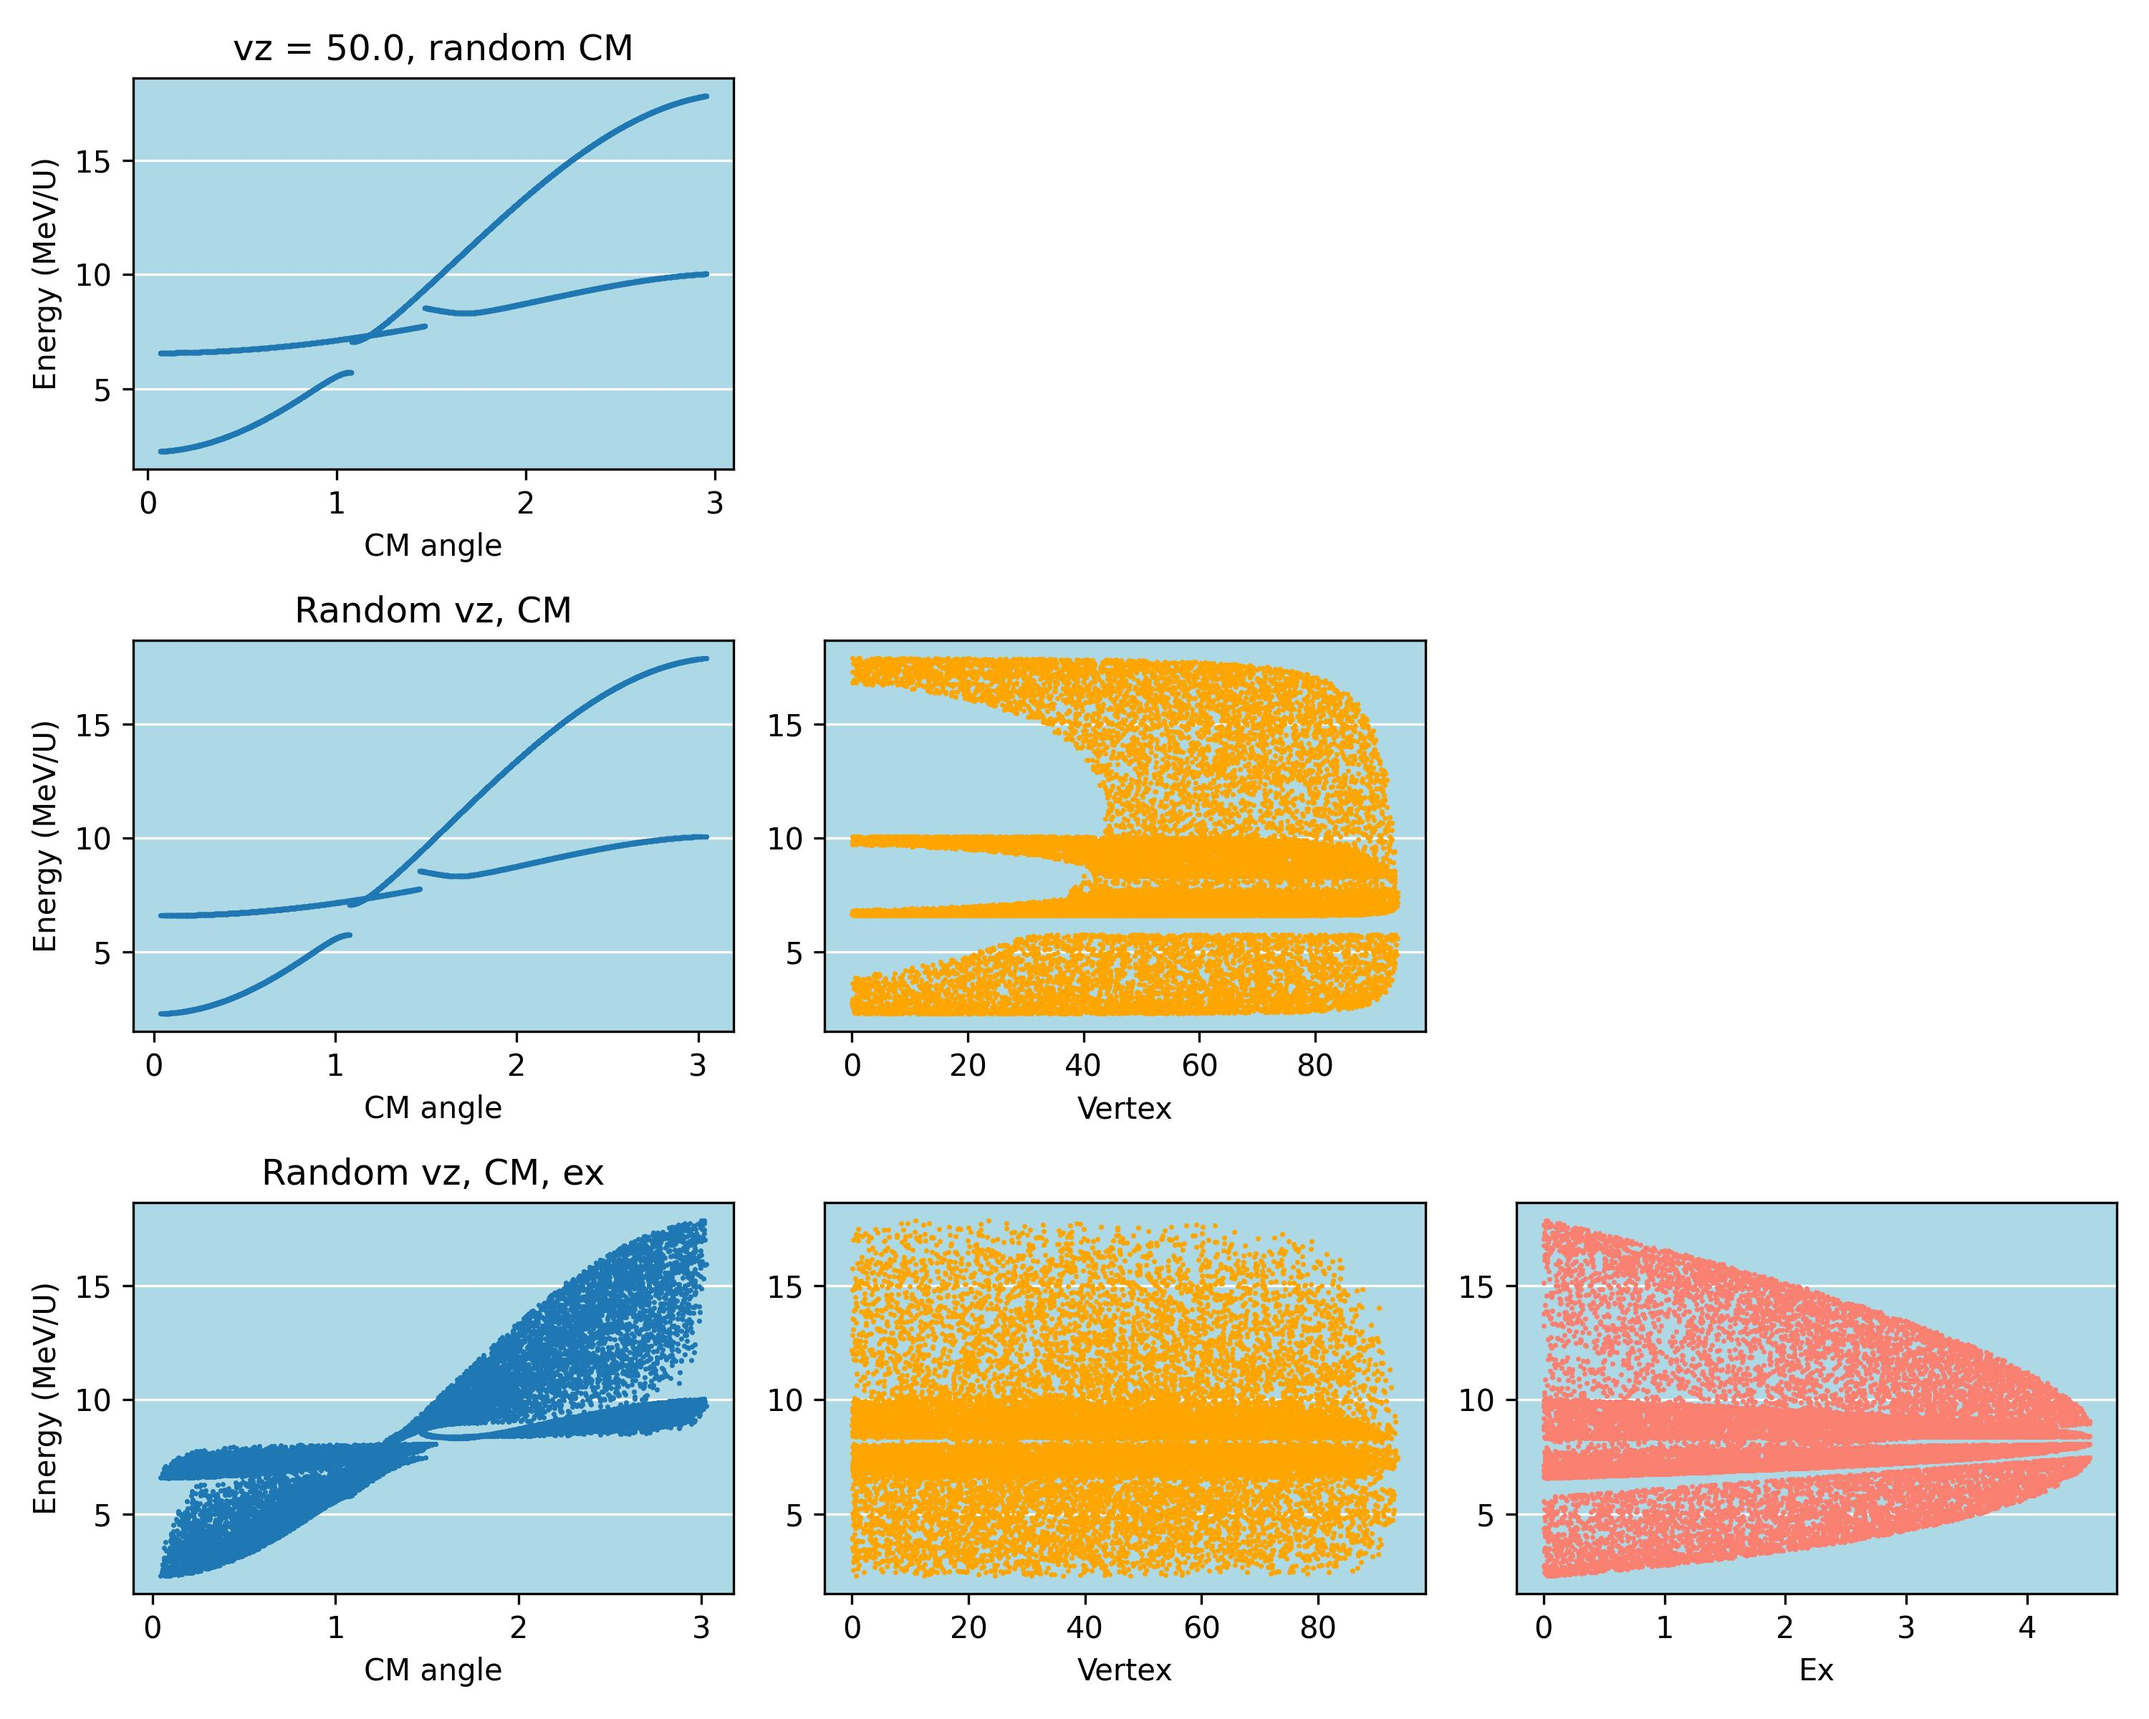
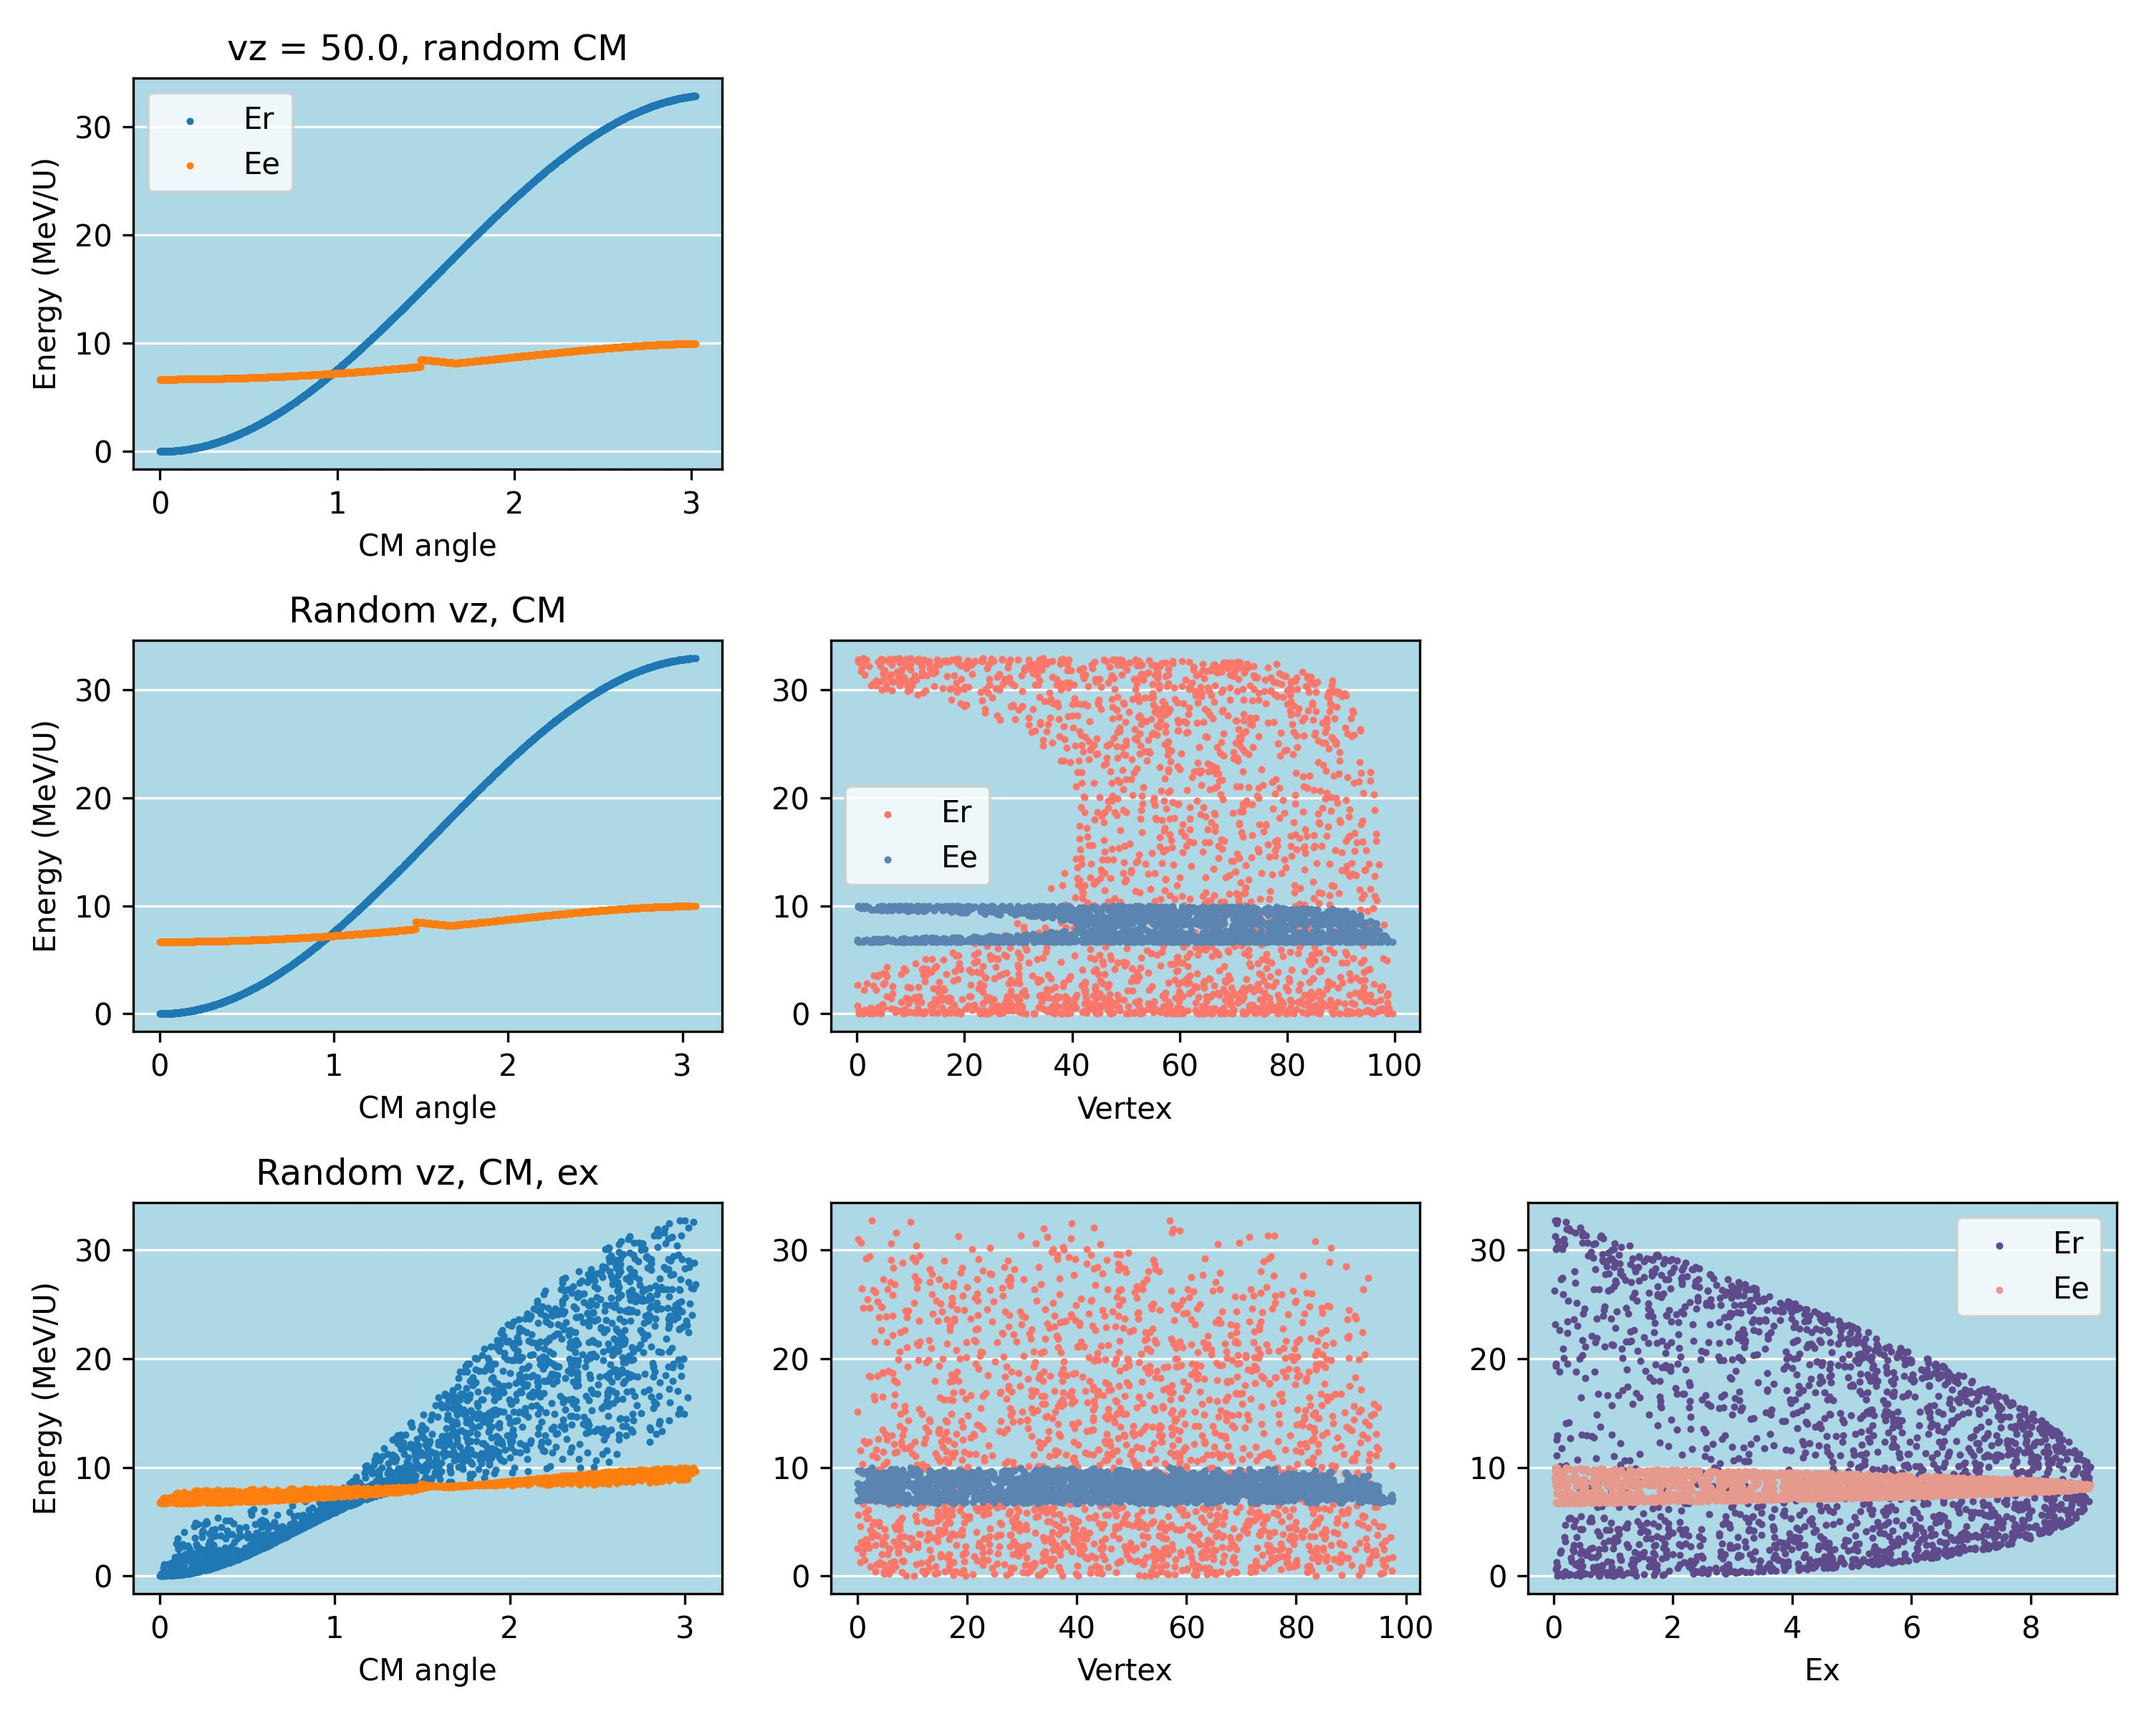
Added legend and changed colors to make plots clearer

diff --git a/main.py b/main.py
@@ -74,18 +74,13 @@ class Window(Tk):
 
         self.nreaction_label = Label(self.reaction_frame, text = "# Reactions (thousands)")
         self.nreaction_label.grid(row=0,column=2)
-        self.nreaction_entry = Entry(self.reaction_frame,textvariable=IntVar(value=10))
+        self.nreaction_entry = Entry(self.reaction_frame,textvariable=IntVar(value=1))
         self.nreaction_entry.grid(row=1,column=2)
 
         self.excitation_label = Label(self.reaction_frame, text = "Excitation (MeV)")
         self.excitation_label.grid(row=2,column=0)
         self.excitation_entry = Entry(self.reaction_frame,textvariable=DoubleVar(value=0))
         self.excitation_entry.grid(row=3,column=0)
-
-        # self.vertex_label = Label(self.reaction_frame, text = "Vertex of Reaction (cm)")
-        # self.vertex_label.grid(row=2,column=1)
-        # self.vertex_entry = Entry(self.reaction_frame,textvariable=DoubleVar(value=50))
-        # self.vertex_entry.grid(row=3,column=1)
 
         for widget in self.reaction_frame.winfo_children():
            widget.grid_configure(padx=5,pady=5)
@@ -226,7 +221,7 @@ class Window(Tk):
             self.runEN_button["state"] = "active"
         
     def infoWin(self) -> None:
-        def delete_monitor(self: GUI) -> None:
+        def delete_monitor(self: Window) -> None:
             self.infoWindow.destroy()
             self.info_button['state'] = 'active'
 
@@ -358,7 +353,8 @@ class Kinematics:
         self.looping = True
         
         vz = self.xdim / 2
-        self.Energy1 = []
+        self.Energy11 = []
+        self.Energy12 = []
         self.Cm1 = []
         while len(self.Cm1) < 2*self.nreactions:
             try:
@@ -378,11 +374,13 @@ class Kinematics:
             else:
                 y2 = vz*np.tan(A2)
             if y1 >= self.dead and y2 <= self.threshd:
-                self.Cm1.extend([self.cm,self.cm])
-                self.Energy1.extend([Er,Ee])
+                self.Cm1.append(self.cm)
+                self.Energy11.append(Er)
+                self.Energy12.append(Ee)
 
         self.vz2 = []
-        self.Energy2 = []
+        self.Energy21 = []
+        self.Energy22 = []
         self.Cm2 = []
         while len(self.Cm2) < 2*self.nreactions:
             try:
@@ -403,14 +401,16 @@ class Kinematics:
             else:
                 y2 = vz*np.tan(A2)
             if y1 >= self.dead and y2 <= self.threshd:
-                self.vz2.extend([vz,vz])
-                self.Cm2.extend([self.cm,self.cm])
-                self.Energy2.extend([Er,Ee])
+                self.vz2.append(vz)
+                self.Cm2.append(self.cm)
+                self.Energy21.append(Er)
+                self.Energy22.append(Ee)
 
         amu = 931.4941024 # MeV/U
         self.vz3 = []
         self.Cm3 = []
-        self.Energy3 = []
+        self.Energy31 = []
+        self.Energy32 = []
         self.Excite3 = []
         while len(self.Cm3) < 2*self.nreactions:
             try:
@@ -433,10 +433,11 @@ class Kinematics:
             else:
                 y2 = vz*np.tan(A2)
             if y1 >= self.dead and y2 <= self.threshd:
-                self.vz3.extend([vz,vz])
-                self.Cm3.extend([self.cm,self.cm])
-                self.Energy3.extend([Er,Ee])
-                self.Excite3.extend([Ex,Ex])
+                self.vz3.append(vz)
+                self.Cm3.append(self.cm)
+                self.Energy31.append(Er)
+                self.Energy32.append(Ee)
+                self.Excite3.append(Ex)
 
         self.looping = False
         GUI.toggleRunButtons(state="on")
@@ -479,7 +480,6 @@ class Kinematics:
 
     def createENFig(self) -> None:
         fig,ax = plt.subplots(nrows=3,ncols=3,figsize=(10,8))
-        #plt.subplots_adjust(wspace=0.3, hspace=0.5)
 
         ax[0,0].set_xlabel("CM angle")
         ax[0,0].set_ylabel("Energy (MeV/U)")
@@ -487,7 +487,9 @@ class Kinematics:
         ax[0,0].set_facecolor('#ADD8E6')
         ax[0,0].set_axisbelow(True)
         ax[0,0].yaxis.grid(color='white', linestyle='-')
-        ax[0,0].scatter(x=self.Cm1,y=self.Energy1,s=0.5)
+        ax[0,0].scatter(x=self.Cm1,y=self.Energy11,s=2,label="Er")
+        ax[0,0].scatter(x=self.Cm1,y=self.Energy12,s=2,label="Ee")
+        ax[0,0].legend()
 
         ax[0,1].axis('off')
         ax[0,2].axis('off')
@@ -498,13 +500,16 @@ class Kinematics:
         ax[1,0].set_facecolor('#ADD8E6')
         ax[1,0].set_axisbelow(True)
         ax[1,0].yaxis.grid(color='white', linestyle='-')
-        ax[1,0].scatter(x=self.Cm2,y=self.Energy2,s=0.5)
+        ax[1,0].scatter(x=self.Cm2,y=self.Energy21,s=2)
+        ax[1,0].scatter(x=self.Cm2,y=self.Energy22,s=2)
 
         ax[1,1].set_xlabel("Vertex")
         ax[1,1].set_facecolor('#ADD8E6')
         ax[1,1].set_axisbelow(True)
         ax[1,1].yaxis.grid(color='white', linestyle='-')
-        ax[1,1].scatter(x=self.vz2,y=self.Energy2,s=0.5,c="orange")
+        ax[1,1].scatter(x=self.vz2,y=self.Energy21,s=2,c="#FC776AFF",label="Er")
+        ax[1,1].scatter(x=self.vz2,y=self.Energy22,s=2,c="#5B84B1FF",label="Ee")
+        ax[1,1].legend()
 
         ax[1,2].axis('off')
 
@@ -514,19 +519,23 @@ class Kinematics:
         ax[2,0].set_facecolor('#ADD8E6')
         ax[2,0].set_axisbelow(True)
         ax[2,0].yaxis.grid(color='white', linestyle='-')
-        ax[2,0].scatter(x=self.Cm3,y=self.Energy3,s=0.5)
+        ax[2,0].scatter(x=self.Cm3,y=self.Energy31,s=2)
+        ax[2,0].scatter(x=self.Cm3,y=self.Energy32,s=2)
 
         ax[2,1].set_xlabel("Vertex")
         ax[2,1].set_facecolor('#ADD8E6')
         ax[2,1].set_axisbelow(True)
         ax[2,1].yaxis.grid(color='white', linestyle='-')
-        ax[2,1].scatter(x=self.vz3,y=self.Energy3,s=0.5,c="orange")
+        ax[2,1].scatter(x=self.vz3,y=self.Energy31,s=2,c="#FC776AFF")
+        ax[2,1].scatter(x=self.vz3,y=self.Energy32,s=2,c="#5B84B1FF")
 
         ax[2,2].set_xlabel("Ex")
         ax[2,2].set_facecolor('#ADD8E6')
         ax[2,2].set_axisbelow(True)
         ax[2,2].yaxis.grid(color='white', linestyle='-')
-        ax[2,2].scatter(x=self.Excite3,y=self.Energy3,s=0.5,c="salmon")
+        ax[2,2].scatter(x=self.Excite3,y=self.Energy31,s=2,c="#5F4B8BFF",label="Er")
+        ax[2,2].scatter(x=self.Excite3,y=self.Energy32,s=2,c="#E69A8DFF",label="Ee")
+        ax[2,2].legend()
 
         plt.tight_layout()
         plt.savefig(os.path.join(temp_folder,'fig2.jpg'),format="jpg",dpi=300)
